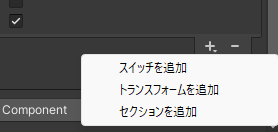
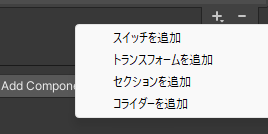
docs: ドキュメントを更新

diff --git a/pages/docs/wim-modules/settings/switch.md b/pages/docs/wim-modules/settings/switch.md
@@ -6,11 +6,11 @@ title: スイッチモジュール
 ## 設定項目
 ![alt text](images/switch/main.png)
 
-スイッチモジュール右下の「+」からセクション、スイッチ、トランスフォームを追加することができます。  
+スイッチモジュール右下の「+」からセクション、スイッチ、トランスフォーム、コライダーを追加することができます。  
 ![alt text](images/switch/add.png)
 
 ::: info
-「トランスフォームを追加」がない場合は、[レガシー版からの移行方法](#migrate-v2)に従って、新しいスイッチモジュールに移行してください。
+「トランスフォームを追加」や「コライダーを追加」がない場合は、[レガシー版からの移行方法](#migrate-v2)に従って、新しいスイッチモジュールに移行してください。
 :::
 
 ### セクション
@@ -77,6 +77,21 @@ X, Y, Zの値は相対値で設定してください。
 #### Scale Min / Scale Max
 Scaleの最小値と最大値を設定します。  
 X, Y, Zの値は相対値で設定してください。
+
+### コライダー {#collider}
+指定したオブジェクトのコライダーの有効/無効を切り替えることができます。
+
+#### 名前
+スイッチの名前を設定します。
+
+#### コライダー
+有効/無効を切り替えるコライダーを設定します。
+
+#### デフォルトで有効
+初期状態でコライダーを有効にするかどうかを設定します。
+
+#### 値を永続化する
+コライダーの有効状態を永続化するかどうかを設定します。
 
 ## Transformの仕様について {#transform-spec}
 Transformで指定できるPosition / Rotation / Scaleの値は相対的に指定する必要があります。    

diff --git a/pages/docs/wim-modules/changelog/ext-vol1.md b/pages/docs/wim-modules/changelog/ext-vol1.md
@@ -4,6 +4,13 @@ title: WIM 拡張モジュール Vol.1 | 更新履歴
 
 # 更新履歴 (WIM 拡張モジュール Vol.1)
 
+## v1.4.0
+`2025/03/22`
+- Feat: スイッチモジュールでコライダーの切り替えを行えるように
+  - 指定したオブジェクトのコライダーの有効/無効を切り替えることができるようになりました。
+  - 詳しくは[こちら](../settings/switch#collider)をご覧ください。
+- Enhance: モジュールのエディタUIを改善
+
 ## v1.3.0
 `2025/02/08`  
 - Feat: スイッチモジュールの「スイッチ」で複数のオブジェクトを指定できるように
